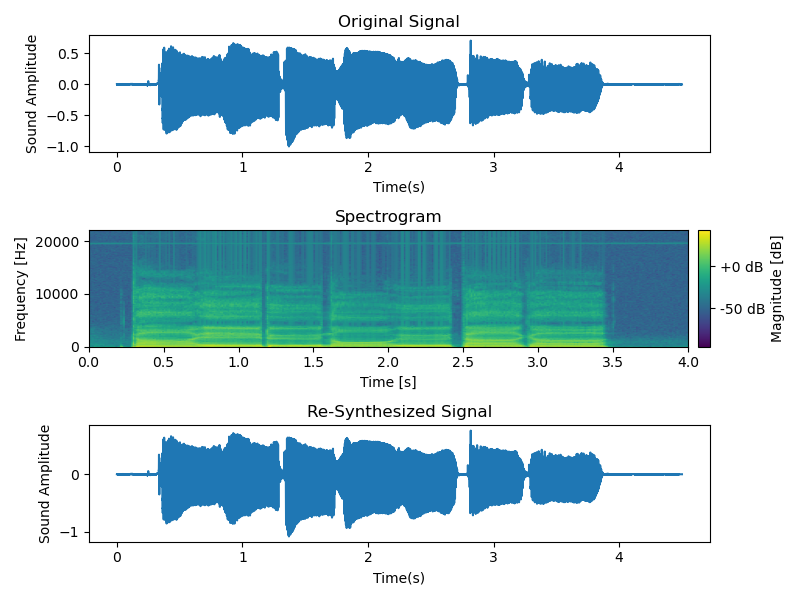
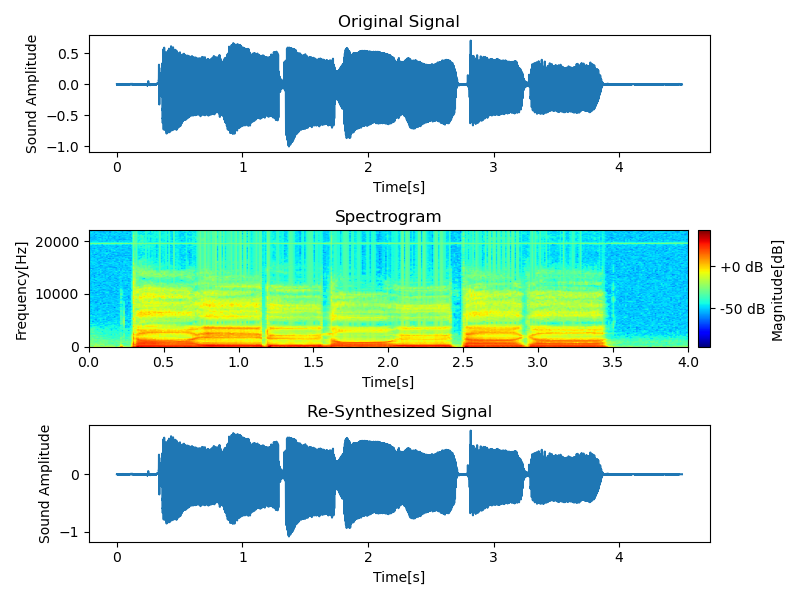
修正版

diff --git a/ex_01/y_sato/ex1.py b/ex_01/y_sato/ex1.py
@@ -49,7 +49,7 @@ if __name__ == "__main__":
     #Original Signal
     ax1 = fig.add_subplot(3,1,1)
     ax1.plot(time,original_signal)
-    ax1.set_xlabel("Time(s)")
+    ax1.set_xlabel("Time[s]")
     ax1.set_ylabel("Sound Amplitude")
     ax1.set_title("Original Signal")
 
@@ -57,23 +57,23 @@ if __name__ == "__main__":
     ax2 = fig.add_subplot(3,1,2)
 
     spec_log = 20 * np.log10(np.abs(spec).T)[window // 2:] #dB
-    im = ax2.imshow(spec_log,extent = [0,original_signal.shape[0] // sr,0,sr // 2,] ,aspect="auto")
+    im = ax2.imshow(spec_log,cmap='jet',extent = [0,original_signal.shape[0] // sr,0,sr // 2,] ,aspect="auto")
 
     #ax2.set_yscale("log",base=2)
     #ax2.set_ylim([50,sr//2])
-    ax2.set_xlabel('Time [s]')
-    ax2.set_ylabel('Frequency [Hz]')
+    ax2.set_xlabel('Time[s]')
+    ax2.set_ylabel('Frequency[Hz]')
 
     divider = make_axes_locatable(ax2)
     cax = divider.append_axes('right', '2%', pad=0.1)
     cbar = fig.colorbar(im, format='%+2.0f dB', cax=cax)
-    cbar.set_label("Magnitude [dB]")
+    cbar.set_label("Magnitude[dB]")
     ax2.set_title("Spectrogram")
 
     #Re-Synthesized Signal
     ax3 = fig.add_subplot(3,1,3)
     ax3.plot(time,ispec)
-    ax3.set_xlabel("Time(s)")
+    ax3.set_xlabel("Time[s]")
     ax3.set_ylabel("Sound Amplitude")
     ax3.set_title("Re-Synthesized Signal")
 
